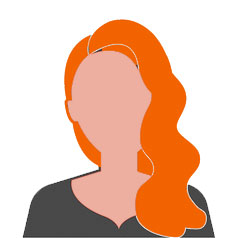
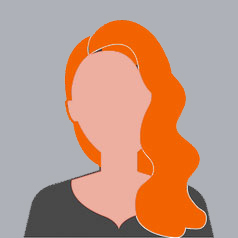
Updates to the Business Card -photo, personal info, styles

diff --git a/src/App.css b/src/App.css
@@ -1,5 +1,5 @@
 .app {
-    margin: 50px ;
+    margin-top: 50px ;
 
 }
 .profilepic {
@@ -14,10 +14,16 @@
 h1 {
     color: #2B283A;
     font-size: 25px;
+    font-weight: 400;
+    line-height: 30px;
     margin: 0;
     
 }
 
+span {
+    font-weight: 800;
+    letter-spacing: 2px ;
+}
 h2 {
     color: #2B283A;
     font-size: 16px;
@@ -26,14 +32,14 @@ h2 {
 }
 
 h3 {
-    font-size: 13px ;
+    font-size: 15px ;
     font-weight: 400;
     color: #F47D27;
     margin: 6px 0 0 0;
 }
 
 h4 {
-    font-size: 11px ;
+    font-size: 13px ;
     font-weight: 400;
     color: #4A4E74;
     margin: 8px ;
@@ -41,13 +47,17 @@ h4 {
 
 p {
     color: #4A4E74;
-    font-size: 11px;
-    line-height: 15px;
+    font-size: 13px;
+    line-height: 17px;
     text-align: left;
     margin: 5px 0px;
 
 }
 
+hr {
+ border: 1.5px solid white;
+ margin: 15px;
+}
 .info-container, .about-container, .interests-container, .footer-container{
     text-align: center;
     width: 317px;
@@ -55,13 +65,12 @@ p {
 }
 .about-container {
     padding: 25px 35px 27px;
-    margin: 0;
+  
     font-size: 0;
 }
 
 .interests-container {
     padding: 0px 35px 31px;
-    margin: 0;
     font-size: 0;
 }
 
@@ -86,8 +95,8 @@ border: none;
 
 
 
-h1, h2, h3, h4, p,  .data-container, a, .buttons, .mailicon, .about-container, .interests-container {
-    background-color: #F5F5F5;
+h1, h2, h3, h4, p,  .data-container, a, .buttons, .mailicon, .about-container, .interests-container, span, hr {
+    background-color: #dee2eb;
   
 }
 .lklicon {

diff --git a/index.html b/index.html
@@ -4,8 +4,10 @@
     <meta charset="UTF-8" />
     <link rel="preconnect" href="https://fonts.googleapis.com">
         <link rel="preconnect" href="https://fonts.gstatic.com" crossorigin>
-        <link href="https://fonts.googleapis.com/css2?family=Inter:wght@400;600;700&display=swap" rel="stylesheet">
-    <link rel="icon" type="image/svg+xml" href="/woman.jpg" />
+        <link rel="preconnect" href="https://fonts.googleapis.com">
+        <link rel="preconnect" href="https://fonts.gstatic.com" crossorigin>
+        <link href="https://fonts.googleapis.com/css2?family=Inter:wght@100;200;300;400;500;600;700;800;900&display=swap" rel="stylesheet">
+    <link rel="icon" type="image/svg+xml" href="/woman.png" />
     <meta name="viewport" content="width=device-width, initial-scale=1.0" />
     <title>Lorena García Cardona</title>
   </head>

diff --git a/src/Components/Info.jsx b/src/Components/Info.jsx
@@ -1,6 +1,6 @@
 import React from 'react'
 import '../App.css'
-import Profilepic from './Images/Profilepic.jpg'
+import Profilepic from './Images/Profilepic.png'
 import Mailicon from './Images/Mail-icon.png'
 import Lkicon from './Images/lk-icon.png'
 
@@ -9,9 +9,10 @@ export default function Info() {
     <div className='info-container'>
         <img className='profilepic' src={Profilepic}/>
         <div className='data-container'>
-            <h1>Lorena García Cardona</h1>
-            <h3>Fontend Developer</h3>
-            <h4>📍 Planet Earth</h4>
+            <h1><span>LORENA</span> <br></br>GARCÍA CARDONA</h1>
+            <hr></hr>
+            <h3>FRONTEND DEVELOPER</h3>
+            <h4>📍 Miami, FL</h4>
             <h4>📧 Lgarciac24@gmail.com</h4>
         </div>
         <div className='buttons'>

diff --git a/src/Components/About.jsx b/src/Components/About.jsx
@@ -7,7 +7,7 @@ export default function About() {
         <div className='about-container'>
            
             <h2>About</h2>
-            <p>I am a frontend developer in training. Passionate about tech and design. I'm a communications major that fell inlove when tried programming for the first time. Doggy mommy to Alfred, a Puerto Rican rescue who loves eating celery.</p>
+            <p>I am a frontend developer in training. Passionate about tech and design. I'm a Communication Major that got into light-programming accidentally and loved it ever since. Doggy mommy to Alfred, a Puerto Rican rescue who loves eating celery.</p>
            
         </div>
         

diff --git a/src/index.css b/src/index.css
@@ -1,5 +1,6 @@
 * {
     box-sizing: border-box;
-    background-color: #23252C;
+    background-color: #2e2e2e;
     font-family: 'Inter', sans-serif;
+    margin: auto
 }
